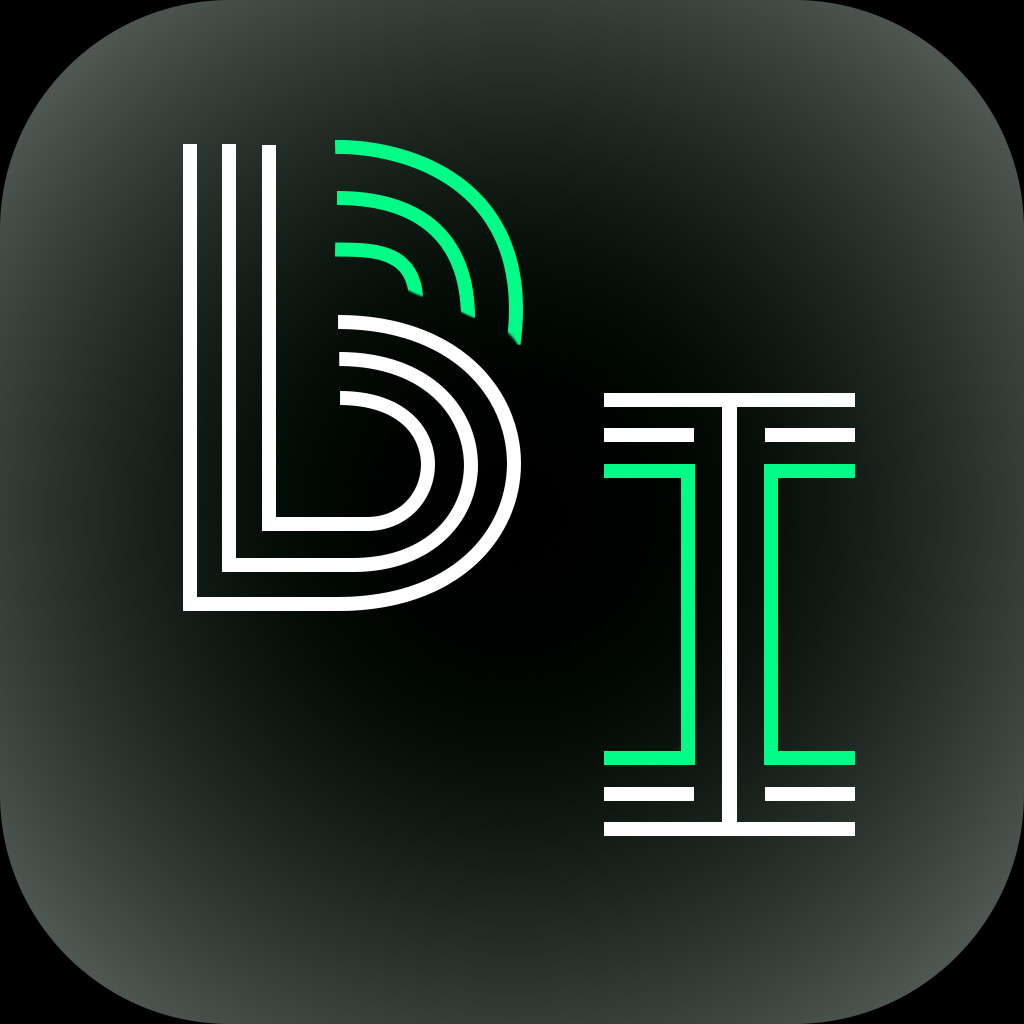
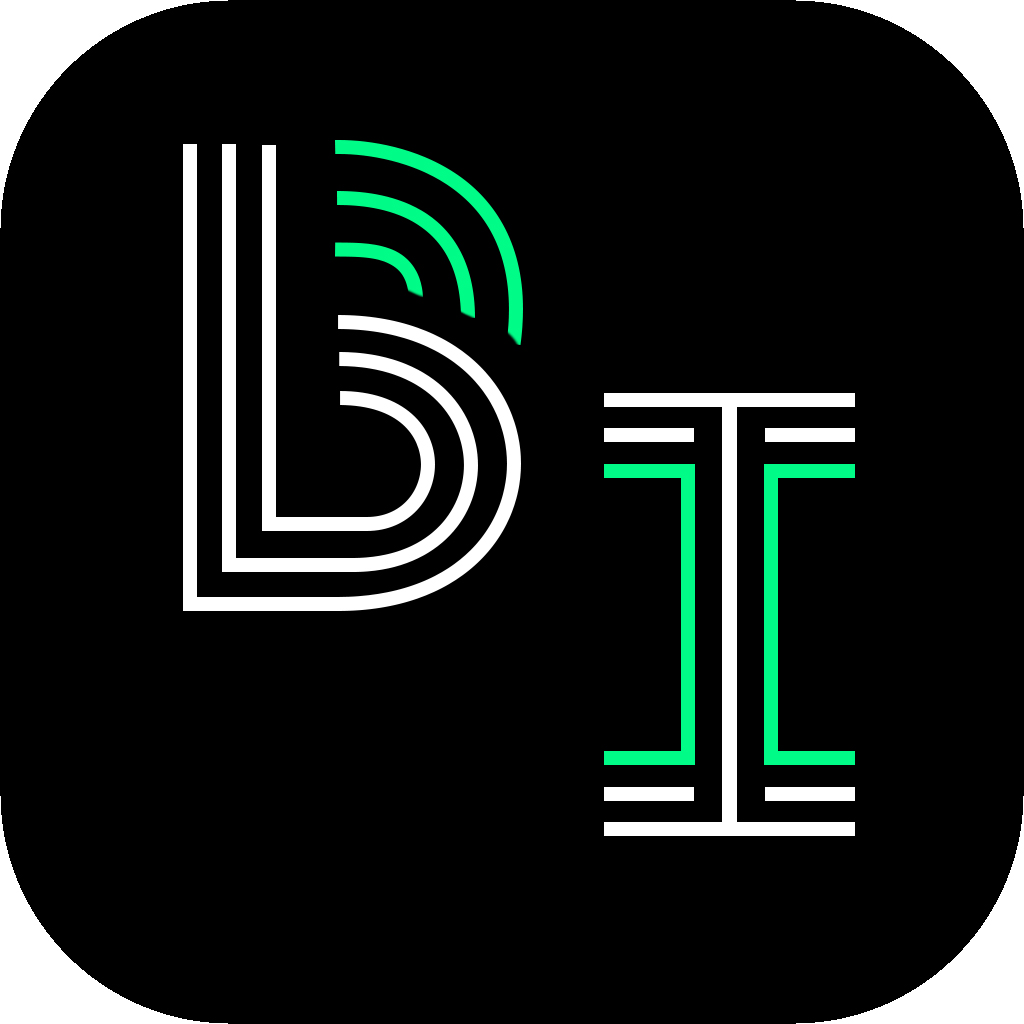
finish Big Ideas project page

diff --git a/portfolio_mobile_app.html b/portfolio_mobile_app.html
@@ -22,7 +22,7 @@ permalink: /portfolio/mobile_app_design/
       </p>
     </div>
 
-    <div class="row dark">
+    <div class="row">
       <div class="cols-4">
         <img src="/assets/big_ideas_branding_reference_2.jpg" alt="BBBS branding reference 1">
       </div>
@@ -37,19 +37,12 @@ permalink: /portfolio/mobile_app_design/
     </div>
 
     <div class="row">
-      <div class="cols-8 video-container">
-        <img class="video-icon-right" src="/assets/video_icon.svg" alt="This is an embedded video; please click play if autoplay didn't happen.">
-        <video src="/assets/gottfried_logo_process.mp4"
-               autoplay
-               muted
-               loop
-               controls
-        >
-        </video>
+      <div class="cols-8">
+        <img src="/assets/big_ideas_all_mockups.jpg" alt="Big Ideas app mockups">
       </div>
       <div class="cols-4">
         <p>
-          A video of the Search and Activity pages in action. The full app also would include pages for creating new activities to share with the community.
+          Mockups showing the launch screen, activity search, and activity description. The full app also would include pages for creating new activities to share with the community.
         </p>
         <p>
           <a href="/assets/big_ideas_search_page.jpg" target="_blank">(full size Search page mockup here)</a>
@@ -60,10 +53,10 @@ permalink: /portfolio/mobile_app_design/
       </div>
     </div>
 
-    <div class="row dark">
+    <div class="row">
       <div class="cols-4">
         <p>
-          I made a simple icon to go with the app. I also mocked up a landing page to fit in with the existing BBBS website, advertising the app with a call to action to go download it.
+          I made a simple icon in the style of BBBS’s main logo to go with the app. I also mocked up a landing page to fit in with the existing BBBS website, advertising the app with a call to action to go download it.
         </p>
       </div>
       <div class="cols-6">

diff --git a/_scss/_page_single_portfolio_entry.scss b/_scss/_page_single_portfolio_entry.scss
@@ -9,8 +9,8 @@
   }
 
   p.project-overview {
-    margin-top: 2rem;
-    margin-bottom: 4rem;
+    margin-top: 3rem;
+    margin-bottom: 6rem;
     font-size: 1.6em;
   }
 
